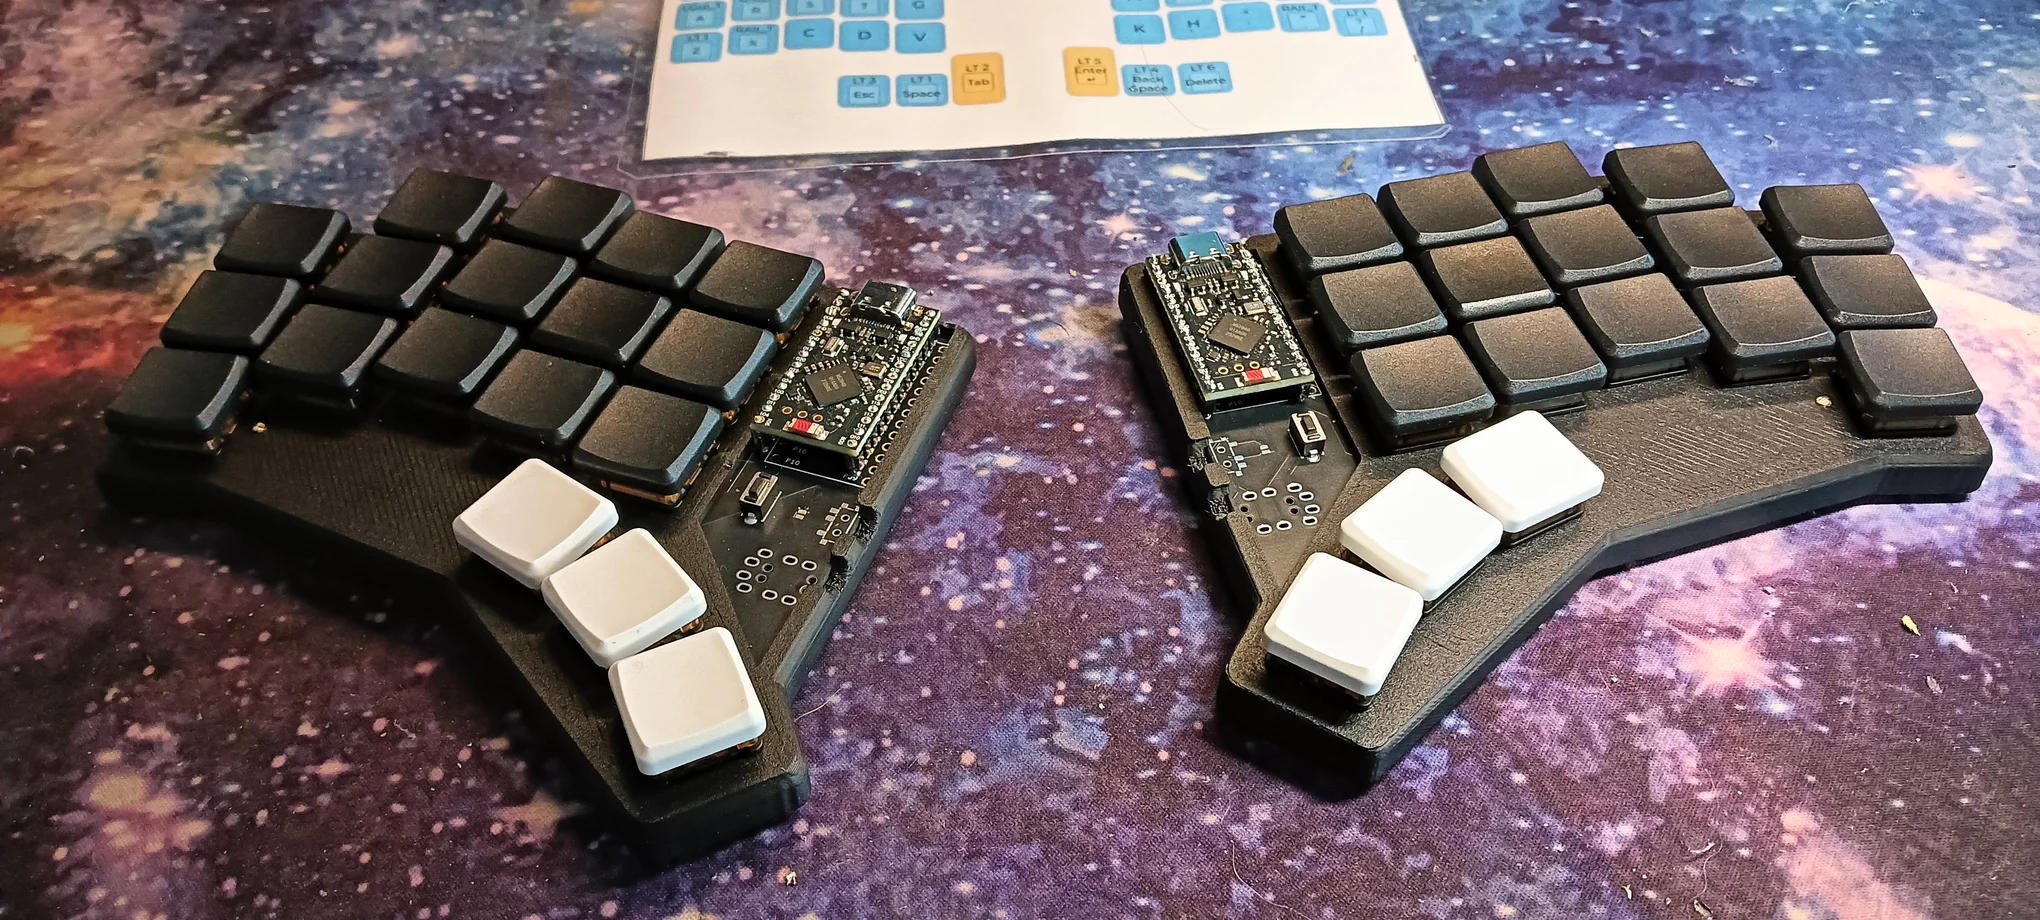
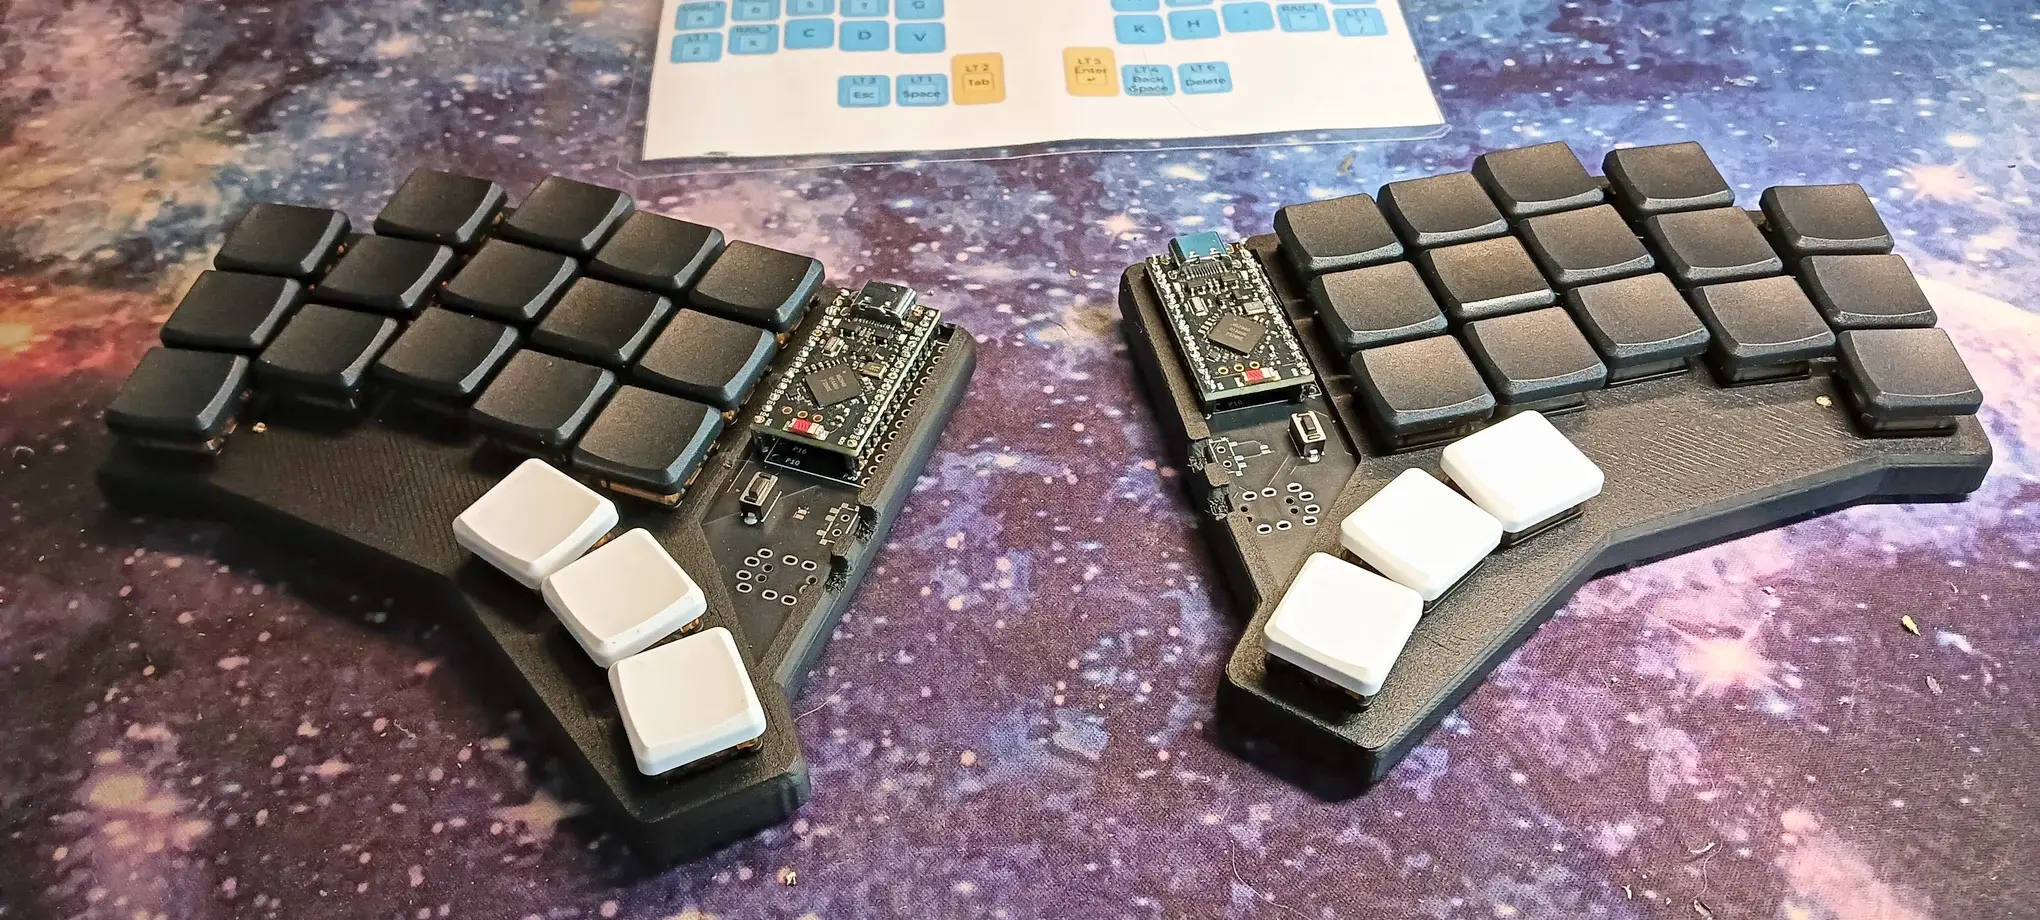
fix images white balance and contrast

diff --git a/README.md b/README.md
@@ -4,7 +4,7 @@ Clavis is a 5x3 split keyboard with three thumb keys, inspired by the Corne keyb
 
 <div align="center">
 
-| Wireless Version (Rubinia Wood) | Wireless Version (Bambu Wood) |
+| Wireless Version (Robinia Wood) | Wireless Version (Bambu Wood) |
 | :---: | :---: |
 | <img src="images/rubinia.webp" alt="Bluetooth with Rubinia wood" width="400"> | <img src="images/bambu.webp" alt="Bluetooth with Bambu wood" width="400"> |
 
